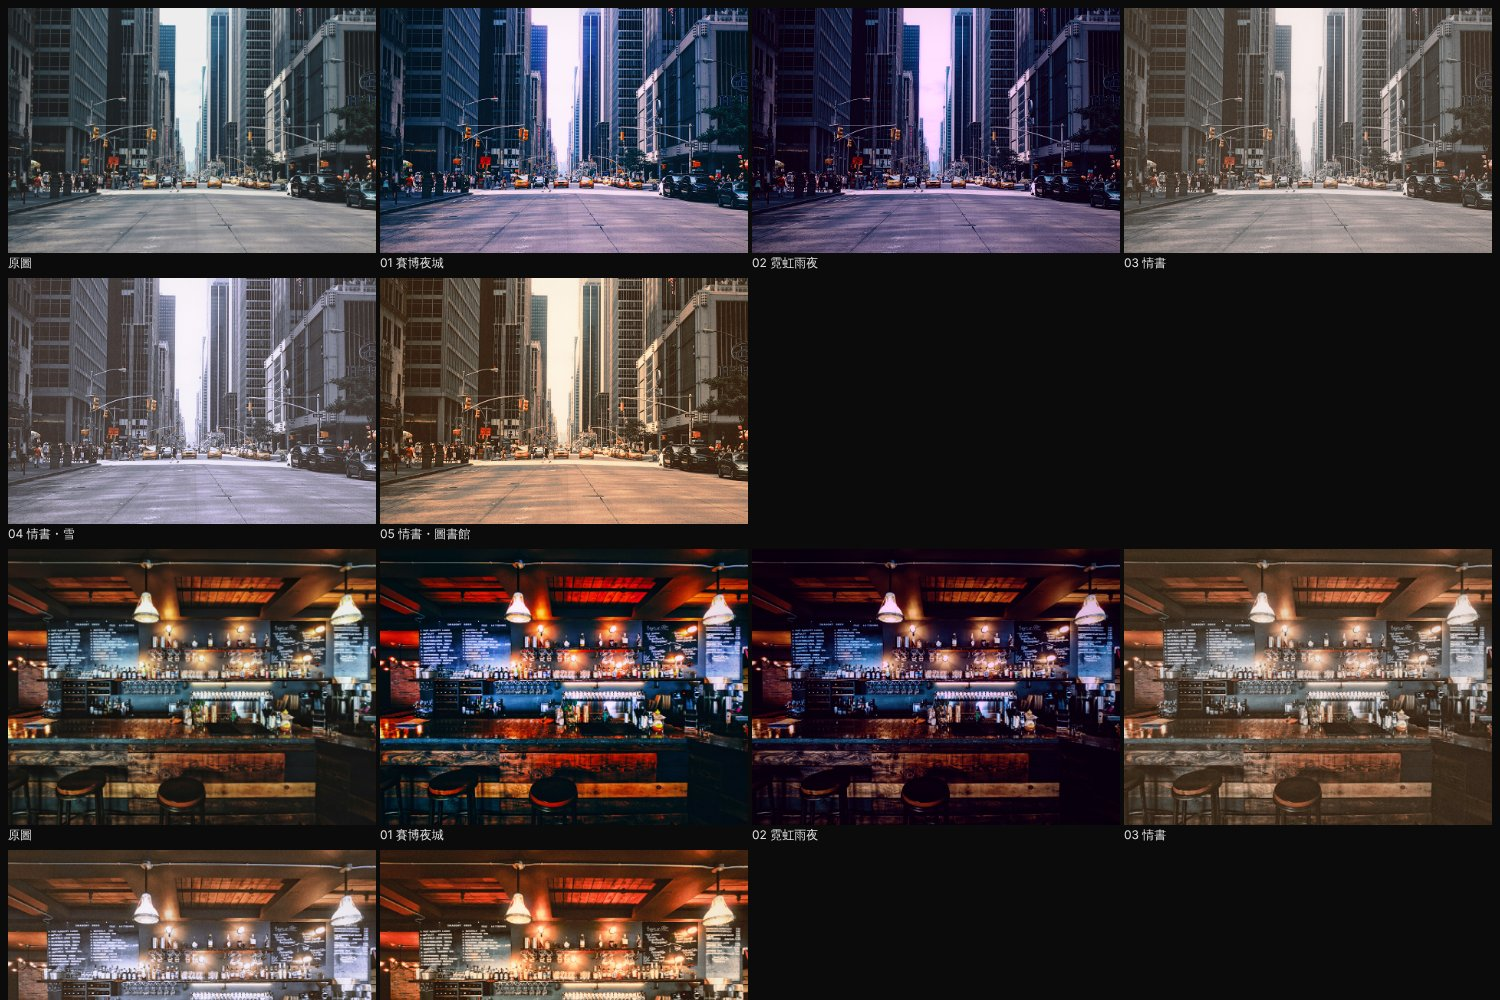
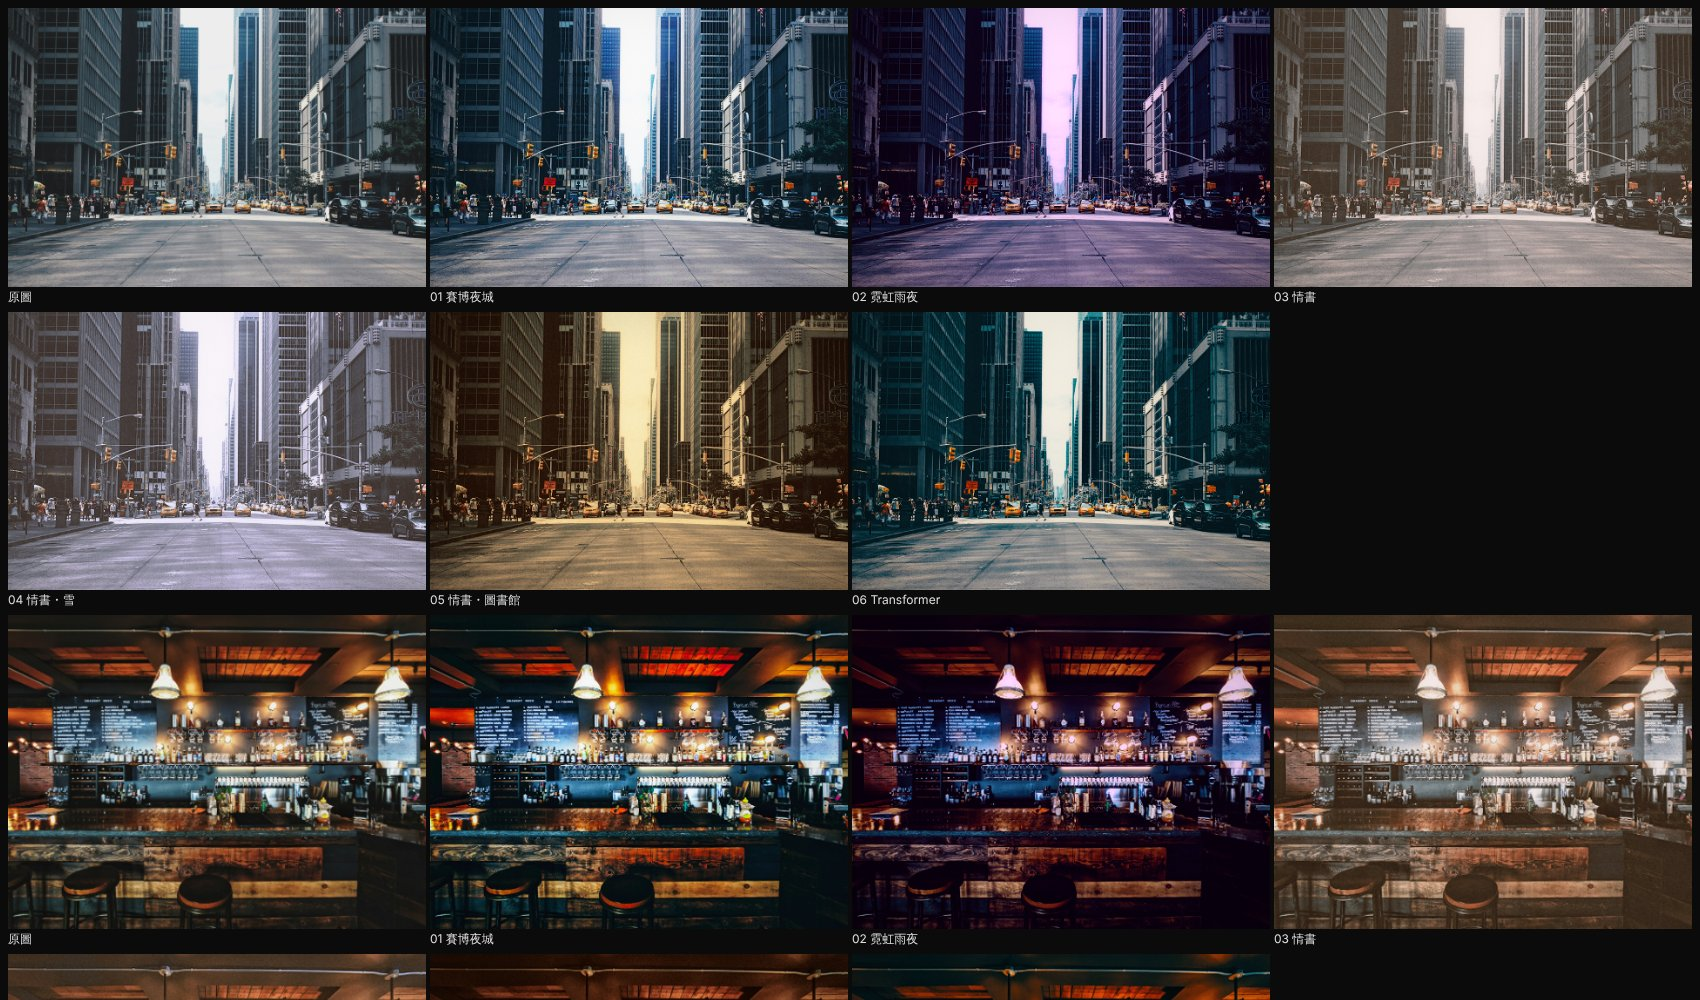
Retune Neon City for neon emphasis and rebuild Library as a tungsten look
- Neon City: new neon parameter boosts only already-vivid colours; skin,
  white walls and greys stay natural; glow keeps the light's own colour
- Library: its own colour base tuned to film frames (near-black brown
  shadows, amber mids, golden lamp highlights, cool colours fade to grey)
  instead of warming the Love Letter base, which washed daylight scenes

Claude-Session: https://claude.ai/code/session_01FRf5ibpb7iyGkVB2mV1Ted

diff --git a/dist/src/looks.js b/dist/src/looks.js
@@ -8,13 +8,14 @@ import {createMask} from './masks.js';
 export const LOOKS = [
   {
     id: 'nightcity', code: '01', name: '賽博夜城', en: 'NEON CITY', swatch: ['#071a24', '#1fc2d6', '#ff3ea5'],
-    desc: '青藍暗部撞上洋紅霓虹，高飽和、深黑和光暈，未來城市的夜。',
-    gain: [1, .955, 1.05], sat: 1.22, desatHi: .12,
-    hues: [[29, 18, 6, 1.25, 0], [55, 18, -14, 1.15, 0], [105, 22, -4, 1.22, 0], [142, 30, 42, 1.05, 0], [195, 28, 0, 1.4, .02], [262, 28, 18, 1.25, .01], [328, 28, 0, 1.45, .02]],
-    shadows: [200, .05], highlights: [338, .022],
-    tone: { contrast: 1.34, pivot: .46, black: .004, white: .985, knee: .78 },
-    print: [[0, 1, 1], [0, 1.03, .985], [.01, .98, 1]],
-    grain: { amount: .03, size: 1.3 }, glow: { halation: .5, bloom: .3, hue: 322 }
+    desc: '城市的霓虹被放大：招牌、燈光的青、藍、洋紅更濃更亮，深黑帶一點青；人的膚色和白牆維持自然。',
+    // neon: boosts only colours that are already saturated (signs, lights), leaving skin and neutrals alone.
+    gain: [1, 1, 1.02], sat: 1, neon: .75, desatHi: .1,
+    hues: [[18, 14, 0, 1, 0], [29, 16, 0, 1.08, 0], [48, 18, 0, 1, .005], [60, 16, 0, 1, .005], [105, 22, -6, 1.1, 0], [142, 30, 40, 1.05, 0], [195, 28, 0, 1.35, .03], [262, 28, 16, 1.3, .02], [310, 24, 6, 1.4, .03], [338, 22, 0, 1.35, .02]],
+    shadows: [205, .03], highlights: [200, .004],
+    tone: { contrast: 1.3, pivot: .47, black: .004, white: .985, knee: .8 },
+    print: [[0, 1, 1], [0, 1, 1], [.008, .99, 1]],
+    grain: { amount: .03, size: 1.3 }, glow: { halation: .3, bloom: .3, hue: 322, sat: .12 }
   },
   {
     id: 'neonrain', code: '02', name: '霓虹雨夜', en: 'NEON RAIN', swatch: ['#1a0f3a', '#2bb3c0', '#e04ac0'],
@@ -54,12 +55,19 @@ LOOKS.push(
   masks: [full('冷藍空氣', {temp: -85, tint: 22, sat: -12, ev: .1}), createMask('luma', {name: '雪光', lo: 68, hi: 100, feather: 15, adj: {ev: .2, hue: 228, amount: 40}}), createMask('color', {name: '膚色保護', hue: 22, width: 36, feather: 22, adj: {temp: 70, tint: -18, sat: 12}})],
   glow: {halation: .05, bloom: .55, hue: 225}
  }),
- variant('loveletter', {
-  id: 'loveletter-library', code: '05', name: '情書・圖書館', en: 'LOVE LETTER · LIBRARY', swatch: ['#2a140b', '#a95f2c', '#f6c66b'],
-  desc: '夜裡的圖書館：鎢絲燈的琥珀橘、濃郁暖色，暗部沉下去，燈泡周圍暈開。',
-  masks: [full('鎢絲燈', {temp: 75, sat: 55, contrast: 15}), createMask('luma', {name: '燈光暈', lo: 60, hi: 100, feather: 15, adj: {ev: .15, hue: 32, amount: 45}}), createMask('luma', {name: '暗部沉', lo: 0, hi: 25, feather: 12, adj: {ev: -.45, contrast: 25}})],
-  glow: {halation: .3, bloom: .4, hue: 30}
- })
+ {
+  id: 'loveletter-library', code: '05', name: '情書・圖書館', en: 'LOVE LETTER · LIBRARY', swatch: ['#1e0f08', '#a9622f', '#f6cf6e'],
+  desc: '夜裡的圖書館：鎢絲燈的琥珀與金黃，深褐近黑的暗部，冷色退成灰；臉保有暖紅的血色。',
+  // Tuned to film frames: shadows ≈ rgb(49,26,19), mids ≈ rgb(169,104,62), lamp highlights ≈ rgb(254,213,80).
+  gain: [1.2, .93, .7], sat: .95, desatHi: .1, desatSh: .25,
+  hues: [[18, 14, 2, .9, 0], [29, 18, 2, .92, 0], [48, 18, -2, .78, .015], [62, 16, -2, .8, .01], [80, 18, -6, 1.1, 0], [105, 22, -18, 1.05, 0], [142, 30, -40, .45, -.02], [195, 30, 0, .45, 0], [262, 30, -20, .5, 0]],
+  shadows: [48, .035], highlights: [78, .03],
+  tone: {contrast: 1.22, pivot: .5, black: .015, white: .975, knee: .72},
+  print: [[.012, 1, 1], [.004, 1.04, .97], [0, 1.12, .86]],
+  vignette: .3,
+  masks: [createMask('luma', {name: '燈光暈', lo: 70, hi: 100, feather: 14, adj: {hue: 38, amount: 25}})],
+  grain: {amount: .06, size: 1.8}, glow: {halation: .35, bloom: .35, hue: 30}
+ }
 );
 
 LOOKS.push({

diff --git a/dist/sw.js b/dist/sw.js
@@ -1,4 +1,4 @@
-const CACHE='eigacam-camera-v15';
+const CACHE='eigacam-camera-v16';
 const ASSETS=["./", "./index.html", "./icon.svg", "./manifest.webmanifest", "./src/style.css", "./src/app.js", "./src/camera.js", "./src/color.js", "./src/looks.js", "./src/masks.js", "./src/develop.js", "./src/roll.js", "./src/files.js", "./src/photo-delivery.js", "./src/engine/renderer.js", "./src/engine/shaders.js", "./assets/icons/camera-rotate.svg", "./assets/icons/photo.svg", "./assets/icons/check.svg", "./assets/icons/LICENSE", "./assets/icon-192.png", "./assets/icon-512.png", "./presets/EIGACAM-Neon-Rain.xmp"];
 self.addEventListener('install',e=>e.waitUntil(caches.open(CACHE).then(c=>c.addAll(ASSETS)).then(()=>self.skipWaiting())));
 self.addEventListener('activate',e=>e.waitUntil(caches.keys().then(keys=>Promise.all(keys.filter(k=>(k.startsWith('luma-studio-')||k.startsWith('eigacam-studio-')||k.startsWith('eigacam-camera-'))&&k!==CACHE).map(k=>caches.delete(k)))).then(()=>self.clients.claim())));

diff --git a/dist/src/engine/renderer.js b/dist/src/engine/renderer.js
@@ -91,7 +91,7 @@ export class Renderer {
     if (this.lost || !this.sourceWidth || !this.lut) return;
     const g = this.gl, crop = s.crop ?? {x: 0, y: 0, w: 1, h: 1}, T = this.targets;
     const w = s.warmth ?? 0, gains = [Math.exp(.16 * w), 1, Math.exp(-.2 * w)], norm = .2126 * gains[0] + .7152 + .0722 * gains[2];
-    const hue = (s.glowHue ?? 20) / 60, k = n => {const v = (n + hue) % 6; return 1 - .55 * Math.max(0, Math.min(v, 4 - v, 1));};
+    const hue = (s.glowHue ?? 20) / 60, gs = s.glowSat ?? .55, k = n => {const v = (n + hue) % 6; return 1 - gs * Math.max(0, Math.min(v, 4 - v, 1));};
     const tint = [k(5), k(3), k(1)], tintL = .2126 * tint[0] + .7152 * tint[1] + .0722 * tint[2];
     g.uniform4f(this.loc('crop'), crop.x, crop.y, crop.w, crop.h);
     g.uniform1f(this.loc('mirror'), s.mirror ? 1 : 0);

diff --git a/dist/src/develop.js b/dist/src/develop.js
@@ -8,7 +8,7 @@ export function renderSettings(look, dials, extra = {}) {
  return {
   exposure: dials.ev, warmth: dials.warmth / 50, strength: dials.strength / 100, sharpen: Math.min(1, dials.sharpen / 100 + (look.detail ?? 0)),
   grain: (look.grain?.amount ?? 0) * dials.grain / 100, grainSize: look.grain?.size ?? 1.5,
-  halation: (look.glow?.halation ?? 0) * glow, bloom: (look.glow?.bloom ?? 0) * glow, glowHue: look.glow?.hue ?? 20,
+  halation: (look.glow?.halation ?? 0) * glow, bloom: (look.glow?.bloom ?? 0) * glow, glowHue: look.glow?.hue ?? 20, glowSat: look.glow?.sat ?? .55,
   vignette: look.vignette ?? .12, masks: look.masks ?? [], ...extra
  };
 }

diff --git a/dist/src/color.js b/dist/src/color.js
@@ -56,6 +56,7 @@ export function lookTransform(rgb, look) {
       dh += w * shift; sm *= 1 + w * (sat - 1); dl += w * (light ?? 0);
     }
     h += dh; C *= sm * (look.sat ?? 1); L += dl * Math.min(1, C / .08);
+    if (look.neon) C *= 1 + look.neon * smooth(.09, .18, C); // emphasise already-vivid light sources
     C *= Math.max(0, 1 - (look.desatHi ?? 0) * smooth(.72, 1, L) - (look.desatSh ?? 0) * (1 - smooth(.08, .38, L)));
     A = C * Math.cos(h * Math.PI / 180); B = C * Math.sin(h * Math.PI / 180);
     const ws = (1 - smooth(.05, .62, L)), wh = smooth(.45, .98, L);

diff --git a/README.md b/README.md
@@ -28,11 +28,11 @@
 
 | 代號 | 名稱 | 方向 |
 |---|---|---|
-| 01 | 賽博夜城 NEON CITY | 青藍暗部、洋紅霓虹與光暈，高飽和、深黑（Cyberpunk 2077 印象） |
+| 01 | 賽博夜城 NEON CITY | 霓虹強調：只放大招牌、燈光這些本來就鮮豔的青、藍、洋紅、紅，深黑帶青；膚色和白牆維持自然 |
 | 02 | 霓虹雨夜 NEON RAIN | 依照網友分享的 Lightroom 賽博龐克參數：紫色陰影、洋紅高光、青藍霓虹 |
 | 03 | 情書 LOVE LETTER | 對照電影畫面實測調出：暖米色中間調、褐色微亮的黑、帶粉紫的白、低飽和、濛濛的光暈；膚色、臉頰、嘴唇保有血色 |
 | 04 | 情書・雪 LOVE LETTER · SNOW | 情書的底色加上遮色片：淡藍紫冷光、雪白亮部，另有「膚色保護」遮色片讓臉保持溫暖 |
-| 05 | 情書・圖書館 LOVE LETTER · LIBRARY | 情書的底色加上遮色片：鎢絲燈琥珀橘、亮部暖光暈、暗部沉下去 |
+| 05 | 情書・圖書館 LOVE LETTER · LIBRARY | 對照電影圖書館畫面：鎢絲燈琥珀金黃、深褐近黑的暗部、冷色退成灰，臉保有暖紅血色 |
 | 06 | Transformer TEAL · ORANGE | 好萊塢大片的青橙對比（《變形金剛》、《瘋狂麥斯：憤怒道》這類）：天空和陰影偏青藍，受光面、膚色、沙土偏暖橙金；中等對比，暗部留細節、高光不過曝 |
 
 04、05 是用**遮色片（局部調整）**做的變化：漸層、圓形、明暗範圍、顏色範圍四種選取方式，每個遮色片有自己的曝光、色溫、色調、飽和、對比與染色，可以複製、反轉後再調整。
